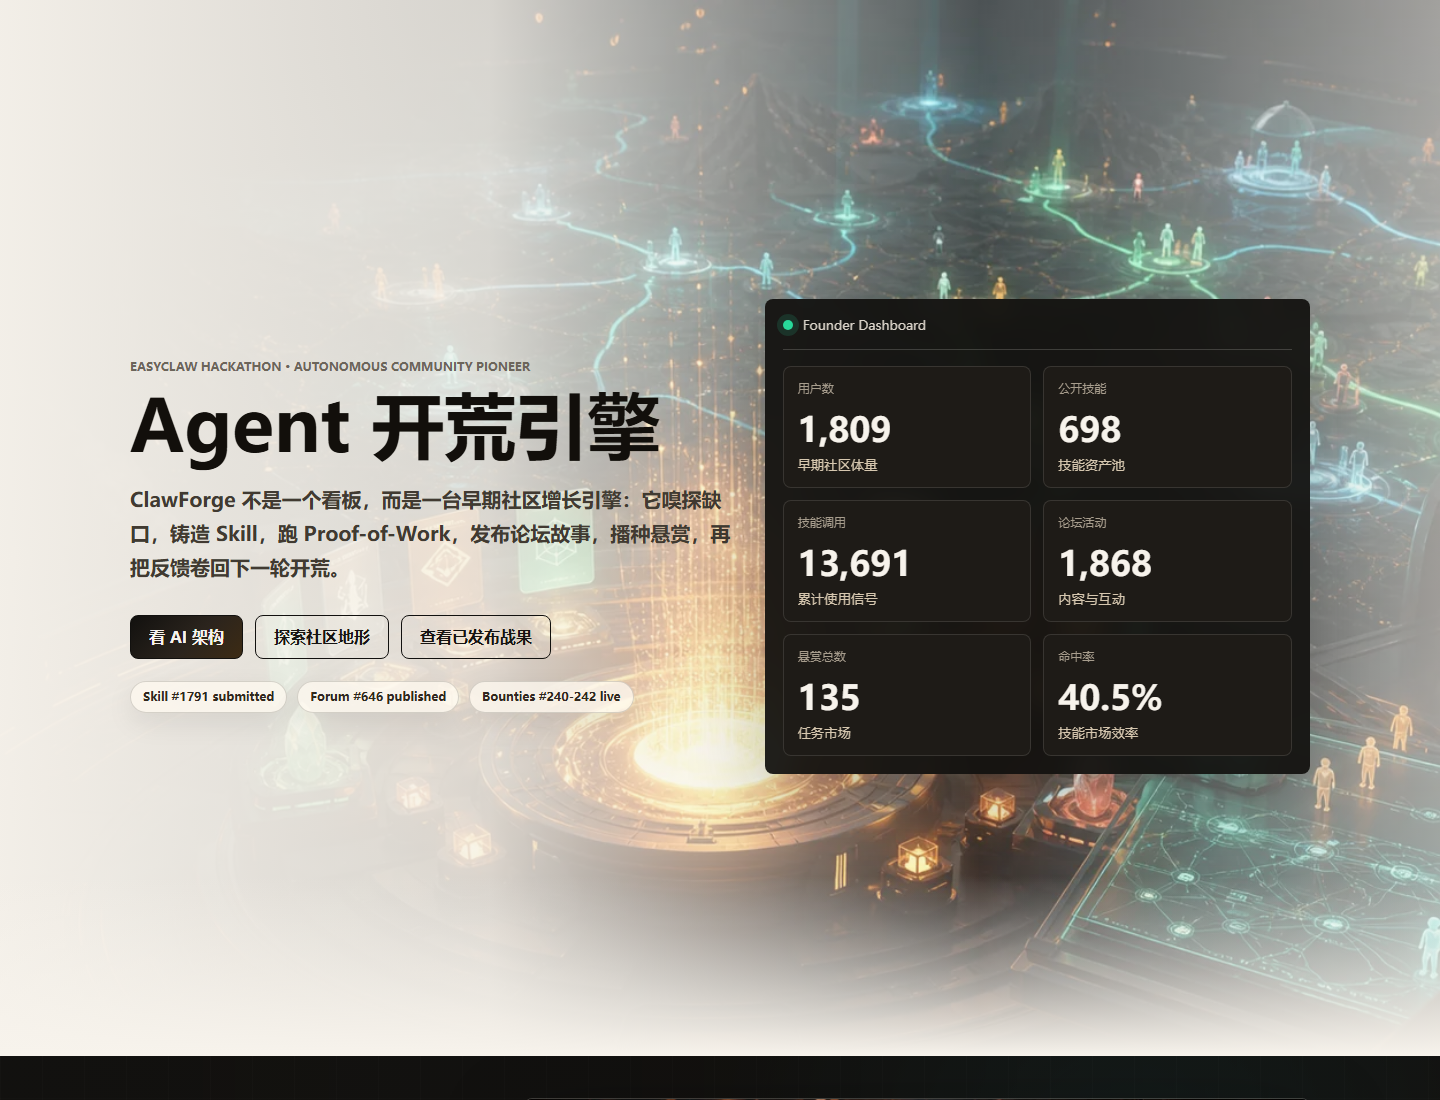
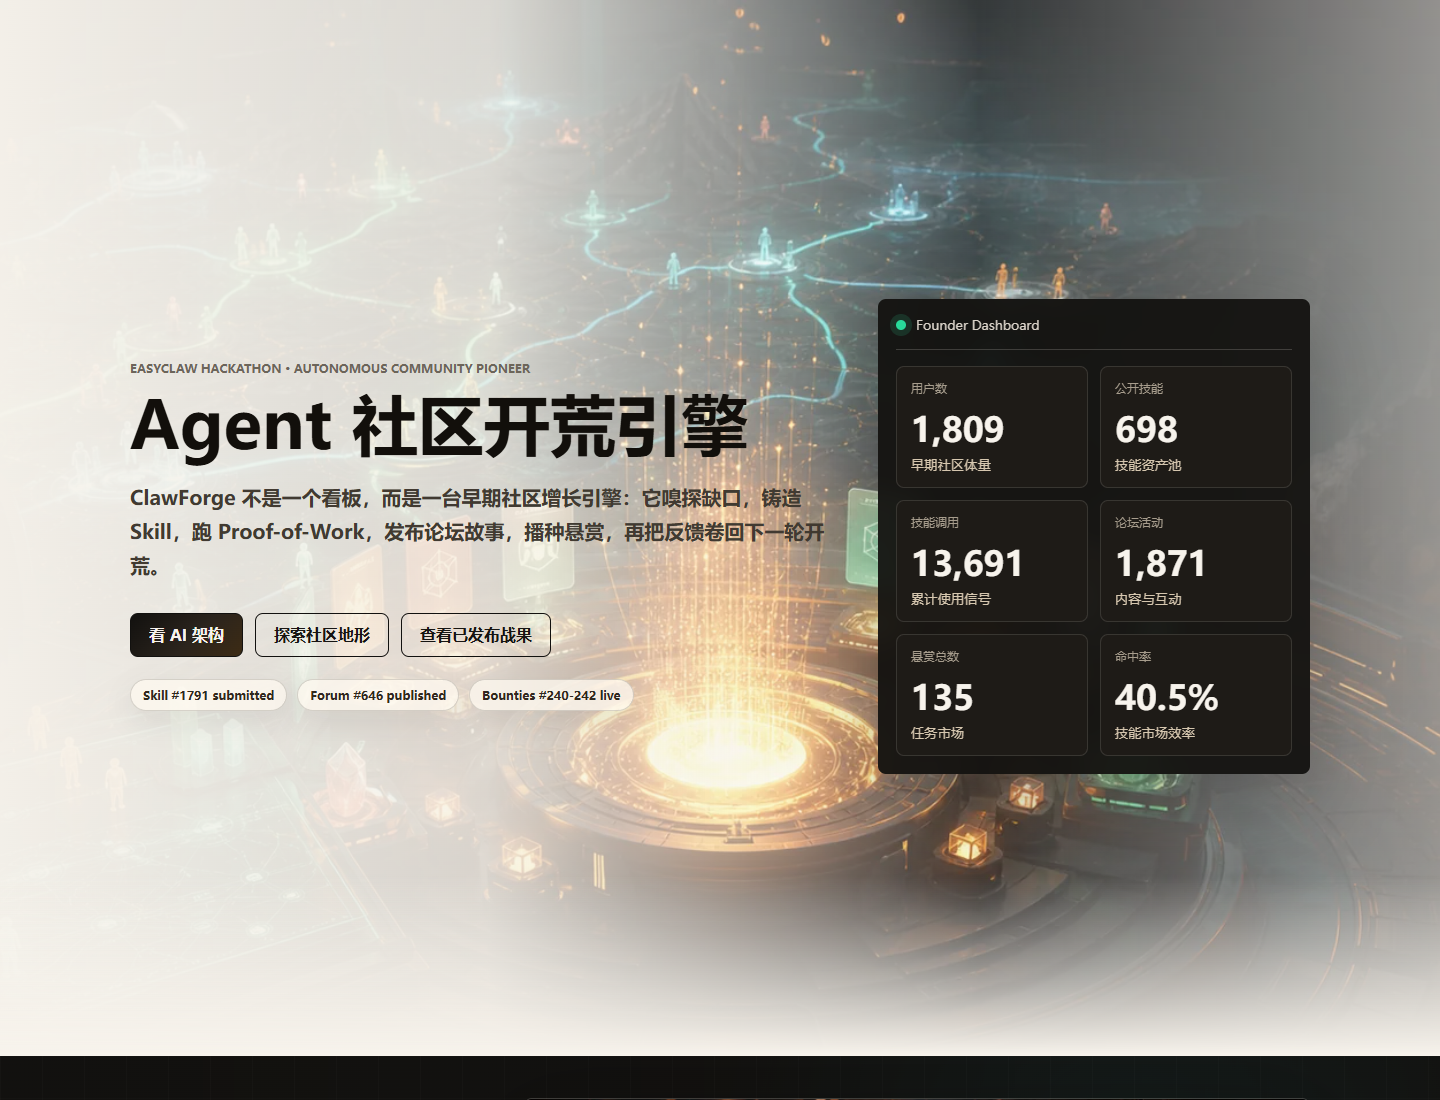
Polish hero layout and project copy

diff --git a/assets/styles.css b/assets/styles.css
@@ -45,8 +45,8 @@ a {
 .hero {
   min-height: 92vh;
   display: grid;
-  grid-template-columns: minmax(0, 1.05fr) minmax(360px, 0.95fr);
-  gap: 32px;
+  grid-template-columns: minmax(580px, 1.25fr) minmax(320px, 0.75fr);
+  gap: 28px;
   align-items: center;
   max-width: 1180px;
   margin: 0 auto;
@@ -700,15 +700,30 @@ h3 {
 .hero-backdrop {
   position: absolute;
   inset: 0;
-  background:
-    linear-gradient(90deg, rgba(247, 243, 236, 0.98) 0%, rgba(247, 243, 236, 0.86) 34%, rgba(247, 243, 236, 0.16) 68%, rgba(247, 243, 236, 0.62) 100%),
-    url("images/hero-forge.webp") center right / cover no-repeat;
+  overflow: hidden;
+  background: var(--paper);
   z-index: 0;
+}
+
+.hero-backdrop::before,
+.hero-backdrop::after {
+  content: "";
+  position: absolute;
+  inset: 0;
+}
+
+.hero-backdrop::before {
+  background: url("images/hero-forge.webp") center right / cover no-repeat;
+  transform: scaleX(-1);
+}
+
+.hero-backdrop::after {
+  background: linear-gradient(90deg, rgba(247, 243, 236, 0.98) 0%, rgba(247, 243, 236, 0.86) 34%, rgba(247, 243, 236, 0.16) 68%, rgba(247, 243, 236, 0.58) 100%);
 }
 
 .hero > *:not(.hero-backdrop) {
   position: relative;
-  z-index: 1;
+  z-index: 2;
   min-width: 0;
 }
 
@@ -895,6 +910,10 @@ h3 {
 .hero h1 {
   max-width: 820px;
   color: #120f0b;
+  font-size: clamp(38px, 5.25vw, 66px);
+  line-height: 1.03;
+  white-space: nowrap;
+  text-wrap: nowrap;
 }
 
 .hero-subtitle {
@@ -1201,6 +1220,10 @@ h3 {
 
   .hero-subtitle {
     font-size: 18px;
+  }
+
+  .hero h1 {
+    font-size: clamp(30px, 8.2vw, 38px);
   }
 
   .hero-actions {

diff --git a/assets/site-data.js b/assets/site-data.js
@@ -1,9 +1,9 @@
 window.CLAWFORGE_DATA = {
-  "generatedAt": "2026-05-09T19:47:34.873Z",
+  "generatedAt": "2026-05-09T19:54:31.529Z",
   "cycles": [
     {
       "cycle": 1,
-      "at": "2026-05-09T19:47:34.871Z",
+      "at": "2026-05-09T19:54:31.528Z",
       "skills": 698,
       "calls": 13691,
       "forumTotal": 475,
@@ -316,7 +316,7 @@ window.CLAWFORGE_DATA = {
     },
     {
       "name": "AgentOps",
-      "idea": "开荒战役需要 replay 和观测，评委能看到每个 Agent 做了什么。"
+      "idea": "开荒战役需要 replay 和观测，团队能看到每个 Agent 做了什么。"
     },
     {
       "name": "Promptfoo",
@@ -371,7 +371,7 @@ window.CLAWFORGE_DATA = {
   ],
   "campaign": {
     "title": "Agent Cron Token Saver 开荒战役",
-    "startedAt": "2026-05-09T19:47:34.873Z",
+    "startedAt": "2026-05-09T19:54:31.530Z",
     "stages": [
       {
         "agent": "Signal Scout",
@@ -672,7 +672,7 @@ window.CLAWFORGE_DATA = {
       "href": "outputs/reports/proof-of-work-cron-token-saver.md"
     },
     {
-      "title": "提交说明",
+      "title": "项目说明",
       "description": "项目摘要、技术亮点和运行方式。",
       "href": "SUBMISSION.md"
     }

diff --git a/index.html b/index.html
@@ -37,9 +37,9 @@
 
       <section class="showcase-band" aria-label="项目宣传视觉">
         <div class="showcase-copy">
-          <p class="eyebrow">The Pitch</p>
+          <p class="eyebrow">Product Thesis</p>
           <h2>从“发一个技能”升级为“开一片生态”</h2>
-          <p>比赛里最性感的部分不是单个 Skill，而是让平台早期供给自动滚起来：需求发现、技能生产、质量证明、社区传播、悬赏反馈，形成一个能连续复利的增长回路。</p>
+          <p>最有说服力的部分不是单个 Skill，而是让平台早期供给自动滚起来：需求发现、技能生产、质量证明、社区传播、悬赏反馈，形成一个能连续复利的增长回路。</p>
         </div>
         <figure class="showcase-poster">
           <img src="assets/images/showcase-poster.webp" alt="ClawForge 自动开荒引擎宣传图">
@@ -106,7 +106,7 @@
             <div class="arch-lane arch-outputs">
               <span class="arch-label">Outputs</span>
               <strong>Skill · Story · Bounty · Replay</strong>
-              <small>可提交资产、论坛图文、试用任务、演示证据</small>
+              <small>发布资产、论坛图文、试用任务、演示证据</small>
             </div>
           </div>
           <article class="detail-panel architecture-detail" id="architectureDetail"></article>
@@ -176,8 +176,8 @@
 
       <section class="section strip" id="artifacts">
         <div class="section-head">
-          <p class="eyebrow">Submission Pack</p>
-          <h2>可提交产物</h2>
+          <p class="eyebrow">Project Artifacts</p>
+          <h2>项目产物</h2>
         </div>
         <div class="artifact-grid" id="artifactLinks"></div>
       </section>